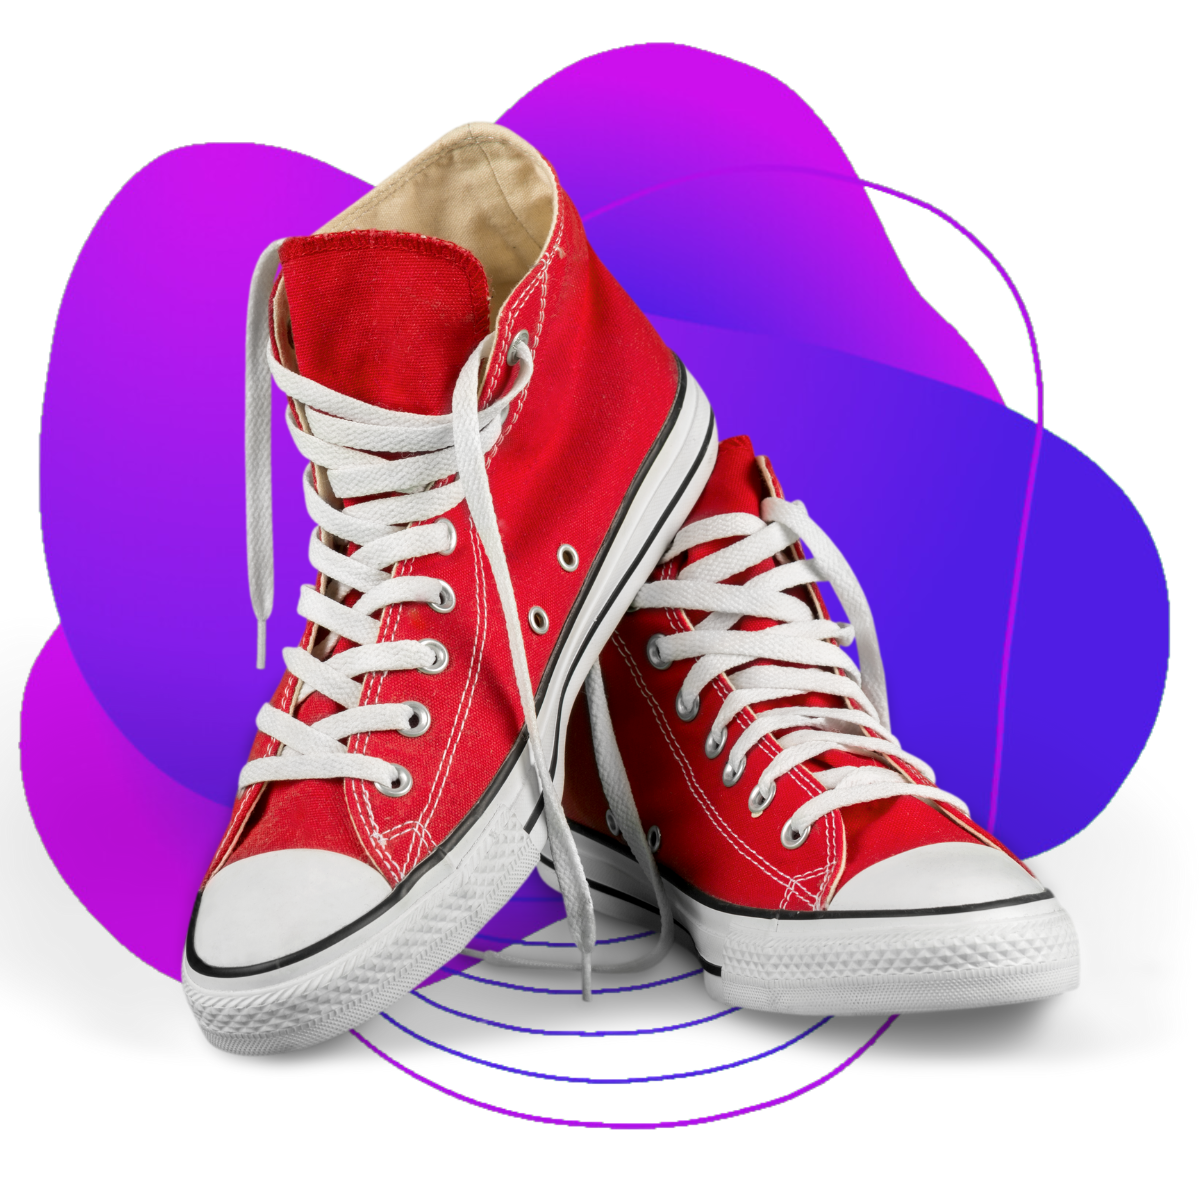
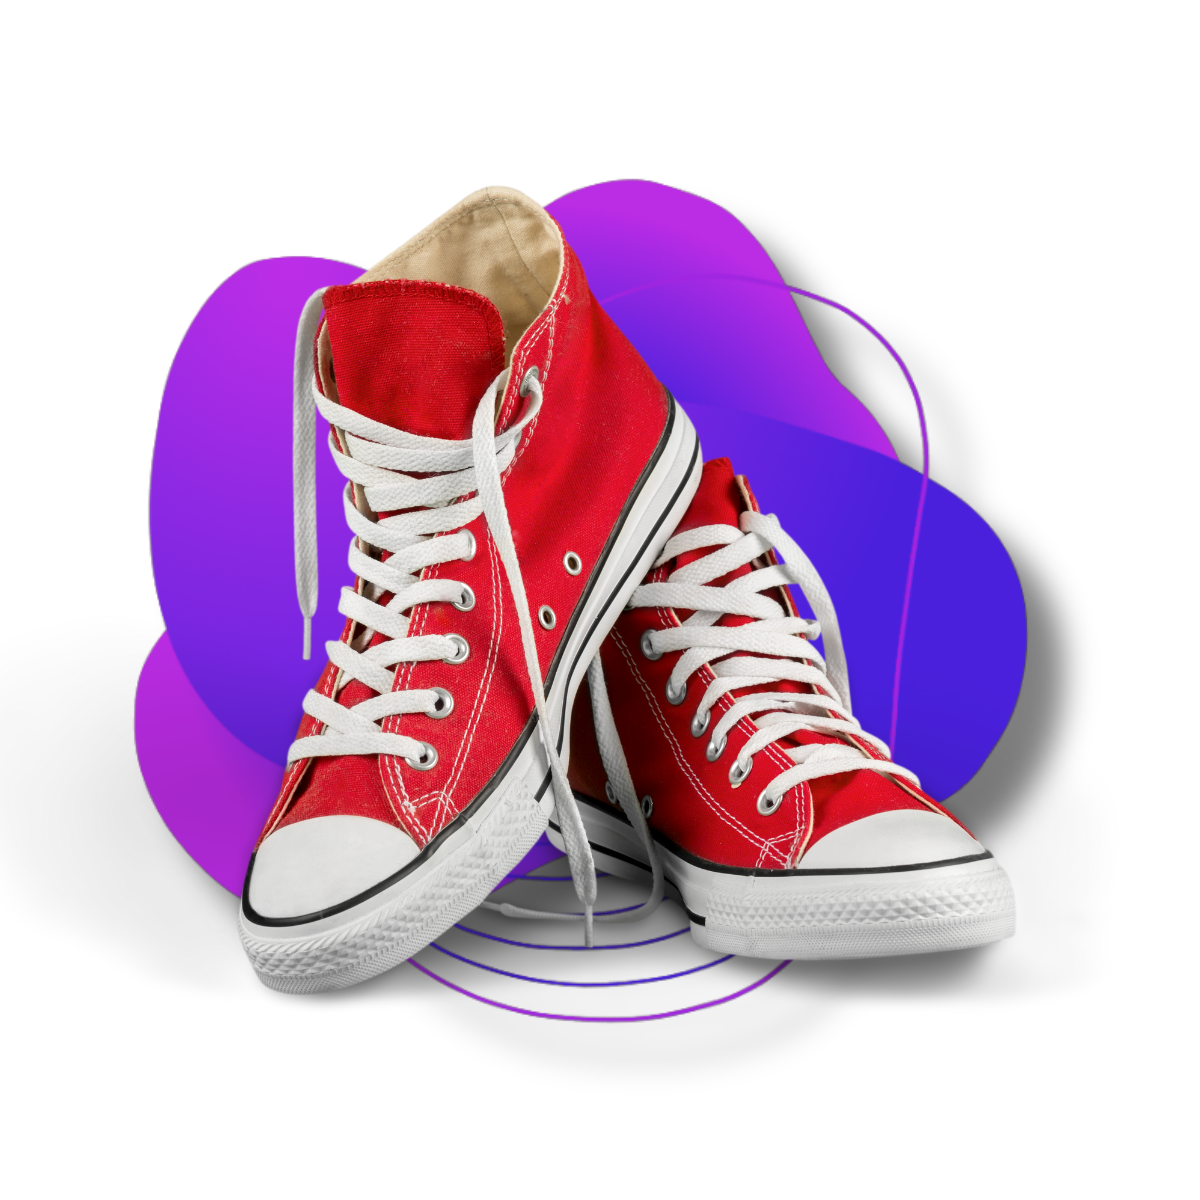
added the shadow in the hero section's main image

diff --git a/src/components/Home/HeroSection.css b/src/components/Home/HeroSection.css
@@ -7,6 +7,6 @@
 }
 
 .main_hero_image{
-    width: 550px;
+    width: 600px;
     align-self: center;
 }
